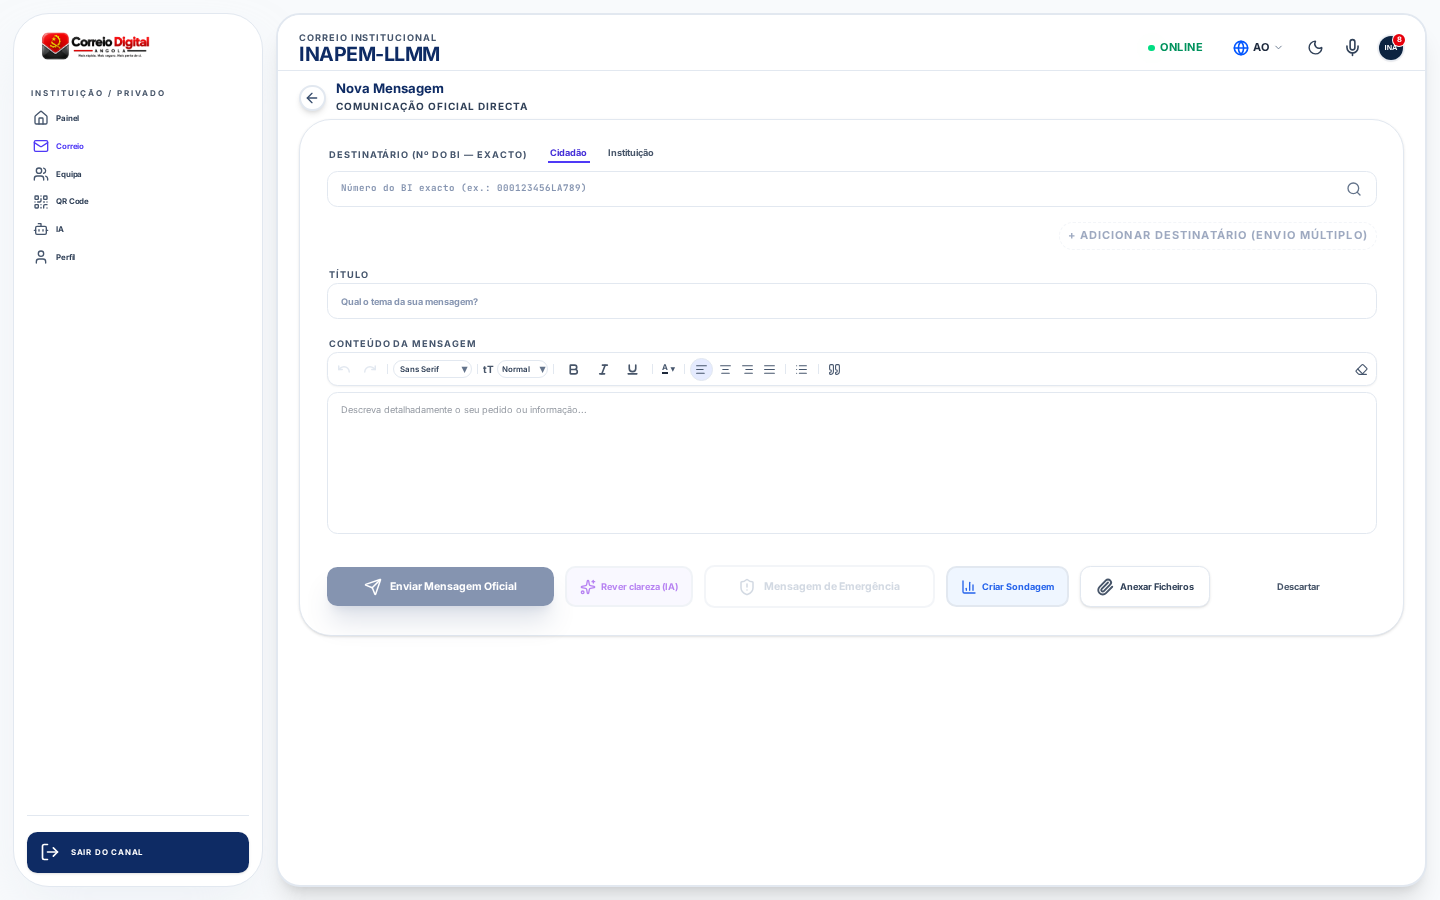
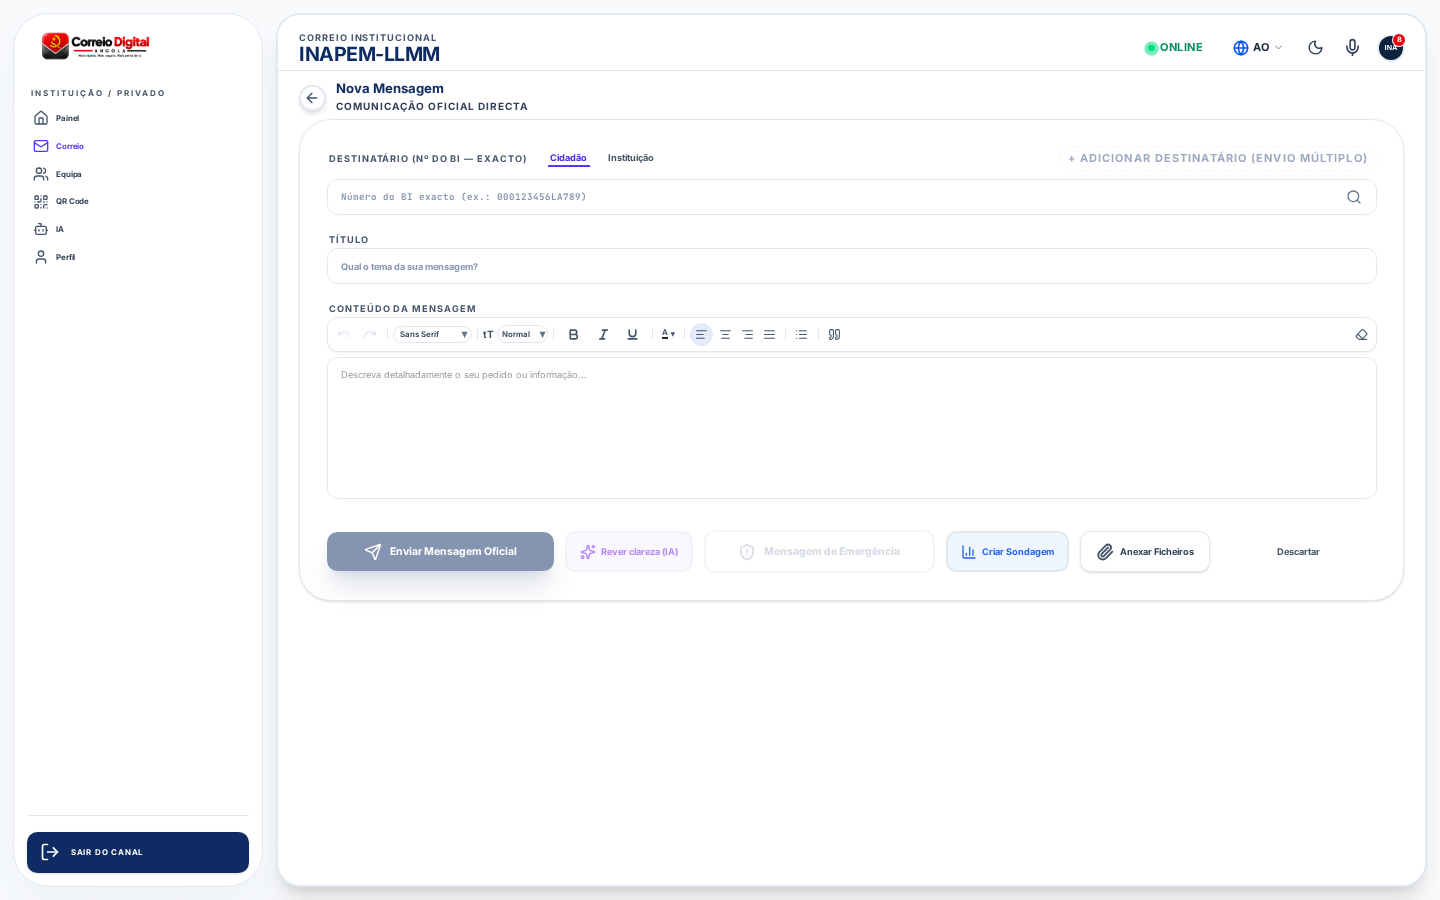
feat(institucional): posicionar botao Adicionar Destinatario Envio Multiplo no canto direito da mesma linha do titulo do destinatario

diff --git a/src/components/features/MailContent.tsx b/src/components/features/MailContent.tsx
@@ -958,42 +958,55 @@ export function MailContent({
           {isInst ? (
             <div className="grid grid-cols-1 gap-5 md:gap-6">
               <div className="space-y-2">
-                <div className="flex flex-wrap items-center gap-6 sm:gap-8 pl-1 pb-1">
-                  <label className="text-[10px] md:text-sm font-black text-slate-600 uppercase tracking-widest cursor-default">
-                    {instRecipientType === 'cidadao' ? 'Destinatário (Nº do BI — exacto)' : 'Destinatário (Código Institucional)'}
-                  </label>
-                  <div className="flex items-center gap-6 text-xs md:text-sm">
-                    <button
-                      type="button"
-                      onClick={() => {
-                        setInstRecipientType('cidadao');
-                        setComposeData(prev => ({ ...prev, to: '' }));
-                      }}
-                      className={`pb-0.5 px-1 font-bold transition-all cursor-pointer border-b-2 ${
-                        instRecipientType === 'cidadao'
-                          ? 'border-indigo-600 text-indigo-700'
-                          : 'border-transparent text-slate-500 hover:text-slate-800'
-                      }`}
-                      id="tab-destinatario-cidadao"
-                    >
-                      Cidadão
-                    </button>
-                    <button
-                      type="button"
-                      onClick={() => {
-                        setInstRecipientType('instituicao');
-                        setComposeData(prev => ({ ...prev, to: '' }));
-                      }}
-                      className={`pb-0.5 px-1 font-bold transition-all cursor-pointer border-b-2 ${
-                        instRecipientType === 'instituicao'
-                          ? 'border-indigo-600 text-indigo-700'
-                          : 'border-transparent text-slate-500 hover:text-slate-800'
-                      }`}
-                      id="tab-destinatario-instituicao"
-                    >
-                      Instituição
-                    </button>
+                <div className="flex flex-col sm:flex-row sm:items-center justify-between gap-3 pl-1 pb-1">
+                  <div className="flex flex-wrap items-center gap-6 sm:gap-8">
+                    <label className="text-[10px] md:text-sm font-black text-slate-600 uppercase tracking-widest cursor-default">
+                      {instRecipientType === 'cidadao' ? 'Destinatário (Nº do BI — exacto)' : 'Destinatário (Código Institucional)'}
+                    </label>
+                    <div className="flex items-center gap-6 text-xs md:text-sm">
+                      <button
+                        type="button"
+                        onClick={() => {
+                          setInstRecipientType('cidadao');
+                          setComposeData(prev => ({ ...prev, to: '' }));
+                        }}
+                        className={`pb-0.5 px-1 font-bold transition-all cursor-pointer border-b-2 ${
+                          instRecipientType === 'cidadao'
+                            ? 'border-indigo-600 text-indigo-700'
+                            : 'border-transparent text-slate-500 hover:text-slate-800'
+                        }`}
+                        id="tab-destinatario-cidadao"
+                      >
+                        Cidadão
+                      </button>
+                      <button
+                        type="button"
+                        onClick={() => {
+                          setInstRecipientType('instituicao');
+                          setComposeData(prev => ({ ...prev, to: '' }));
+                        }}
+                        className={`pb-0.5 px-1 font-bold transition-all cursor-pointer border-b-2 ${
+                          instRecipientType === 'instituicao'
+                            ? 'border-indigo-600 text-indigo-700'
+                            : 'border-transparent text-slate-500 hover:text-slate-800'
+                        }`}
+                        id="tab-destinatario-instituicao"
+                      >
+                        Instituição
+                      </button>
+                    </div>
                   </div>
+
+                  <button
+                    type="button"
+                    onClick={adicionarDestinatarioMulti}
+                    disabled={!composeData.to.trim()}
+                    className="inline-flex items-center justify-center gap-1.5 py-1 px-3 rounded-xl border border-dashed border-primary/30 text-primary text-[10px] md:text-[11px] font-black uppercase tracking-widest hover:bg-primary/5 transition-all disabled:opacity-40 disabled:cursor-not-allowed cursor-pointer shrink-0"
+                    title="Adicionar este destinatário à lista de expedição múltipla"
+                    id="btn-add-multi-dest"
+                  >
+                    + Adicionar Destinatário (Envio Múltiplo)
+                  </button>
                 </div>
 
                 {instRecipientType === 'cidadao' ? (
@@ -1141,8 +1154,24 @@ export function MailContent({
                     {instRegistry.status === 'erro' && (<><AlertTriangle className="shrink-0 mt-0.5 text-rose-600" size={16} /><span>Verificação do registo indisponível de momento.</span></>)}
                   </div>
                 )}
+
+                {destinatariosMulti.length > 0 && (
+                  <div className="flex flex-wrap items-center gap-1.5 pt-1">
+                    {destinatariosMulti.map((d) => (
+                      <span key={d} className="inline-flex items-center gap-1.5 bg-primary/5 border border-primary/15 text-primary rounded-full pl-3 pr-1.5 py-1 text-[10px] md:text-[11px] font-black font-mono">
+                        {d}
+                        <button
+                          type="button"
+                          onClick={() => removerDestinatarioMulti(d)}
+                          aria-label={`Remover ${d}`}
+                          className="w-4 h-4 rounded-full bg-primary/10 hover:bg-red-100 hover:text-red-600 flex items-center justify-center transition-all text-[11px] leading-none cursor-pointer"
+                        >×</button>
+                      </span>
+                    ))}
+                    <span className="text-[9px] font-black text-emerald-700 uppercase tracking-widest">→ {destinatariosMulti.length} destinatário(s) na lista</span>
+                  </div>
+                )}
               </div>
-              {multiDestControls}
               <div className="space-y-2">
                 <label className="text-[10px] md:text-sm font-black text-slate-600 uppercase tracking-widest pl-1">Título</label>
                 <input 
